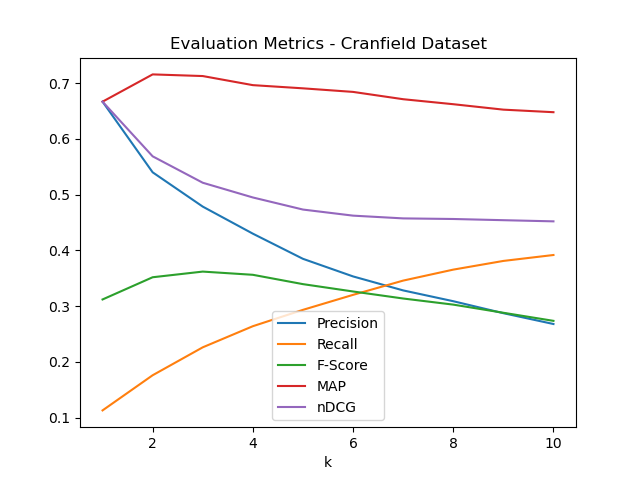
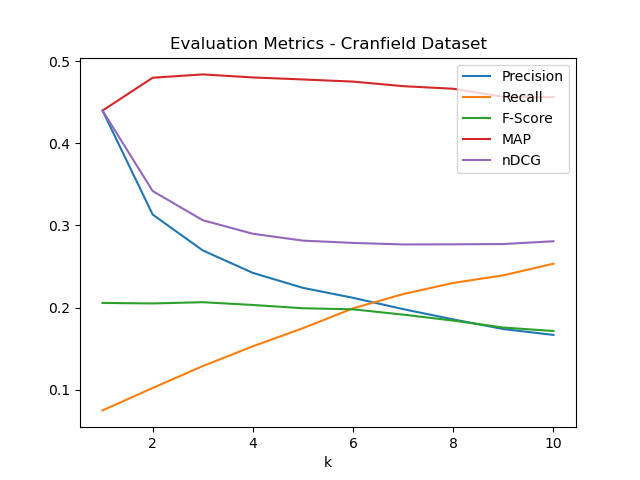
ESA/NESA set alpha = 1 and the rest of the parameters to 0, to get pure ESA/NESA model

diff --git a/build_wikipedia_index_local.py b/build_wikipedia_index_local.py
@@ -1,0 +1,249 @@
+import requests
+import time
+import pickle
+from collections import defaultdict, Counter
+from math import log
+import re
+import nltk
+from nltk.stem import PorterStemmer
+from nltk.corpus import stopwords
+
+# Initialize NLTK resources
+try:
+    nltk.data.find('tokenizers/punkt')
+    nltk.data.find('corpora/stopwords')
+except LookupError:
+    nltk.download('punkt')
+    nltk.download('stopwords')
+
+class WikipediaIndexBuilder:
+    def __init__(self, output_file='wikipedia_index.pkl', max_articles=10000, batch_size=20, max_retries=3):
+        """
+        Initialize the Wikipedia index builder.
+
+        Parameters:
+        - output_file (str): Path to save the pickled index
+        - max_articles (int): Maximum number of articles to process
+        - batch_size (int): Number of articles per API request
+        - max_retries (int): Maximum retries for failed requests
+        """
+        self.output_file = output_file
+        self.max_articles = max_articles
+        self.batch_size = batch_size
+        self.max_retries = max_retries
+        self.session = requests.Session()
+        self.stemmer = PorterStemmer()
+        self.stopwords = set(stopwords.words('english'))
+        self.URL = "https://en.wikipedia.org/w/api.php"
+
+    def get_category_members(self, category, depth=0, max_depth=3):
+        """
+        Recursively get articles in a category and subcategories up to max_depth.
+
+        Parameters:
+        - category (str): Wikipedia category name, e.g., "Category:Aerospace engineering"
+        - depth (int): Current recursion depth
+        - max_depth (int): Maximum recursion depth
+
+        Returns:
+        - set: Set of unique article titles
+        """
+        if depth > max_depth:
+            return set()
+        articles = set()
+        PARAMS = {
+            "action": "query",
+            "list": "categorymembers",
+            "cmtitle": category,
+            "cmtype": "page|subcat",
+            "cmlimit": "500",
+            "format": "json"
+        }
+        retries = 0
+        while retries < self.max_retries:
+            try:
+                response = self.session.get(url=self.URL, params=PARAMS, timeout=10)
+                response.raise_for_status()
+                data = response.json()
+                members = data["query"]["categorymembers"]
+                articles.update(member["title"] for member in members if member["ns"] == 0)
+                subcats = [member["title"] for member in members if member["ns"] == 14]
+                for subcat in subcats:
+                    articles.update(self.get_category_members(subcat, depth + 1, max_depth))
+                break
+            except requests.exceptions.HTTPError as e:
+                if e.response.status_code == 429:
+                    wait_time = 2 ** retries
+                    print(f"Rate limit hit for {category}, retrying in {wait_time}s...")
+                    time.sleep(wait_time)
+                    retries += 1
+                else:
+                    print(f"HTTP error for {category}: {e}")
+                    break
+            except requests.RequestException as e:
+                print(f"Request error for {category}: {e}")
+                break
+            time.sleep(0.5)  # Reduced delay
+        return articles
+
+    def get_article_extracts(self, titles):
+        """
+        Fetch plain text extracts for a list of article titles in batches.
+
+        Parameters:
+        - titles (list): List of article titles
+
+        Returns:
+        - list: List of tuples (title, extract)
+        """
+        extracts = []
+        titles = list(set(titles))  # Remove duplicates
+        for i in range(0, len(titles), self.batch_size):
+            batch = titles[i:i + self.batch_size]
+            retries = 0
+            while retries < self.max_retries:
+                try:
+                    PARAMS = {
+                        "action": "query",
+                        "prop": "extracts",
+                        "exintro": "",
+                        "explaintext": "",
+                        "titles": "|".join(batch),
+                        "format": "json"
+                    }
+                    response = self.session.get(url=self.URL, params=PARAMS, timeout=10)
+                    response.raise_for_status()
+                    data = response.json()
+                    pages = data["query"]["pages"]
+                    for page_id, page in pages.items():
+                        if "extract" in page and page["extract"].strip():
+                            extracts.append((page["title"], page["extract"]))
+                    break
+                except requests.exceptions.HTTPError as e:
+                    if e.response.status_code == 429:
+                        wait_time = 2 ** retries
+                        print(f"Rate limit hit for batch {i//self.batch_size}, retrying in {wait_time}s...")
+                        time.sleep(wait_time)
+                        retries += 1
+                    else:
+                        print(f"HTTP error for batch {i//self.batch_size}: {e}")
+                        break
+                except requests.RequestException as e:
+                    print(f"Request error for batch {i//self.batch_size}: {e}")
+                    break
+                time.sleep(0.5)  # Reduced delay
+        return extracts
+
+    def preprocess_text(self, text):
+        """
+        Preprocess text to match Cranfield tokenization (e.g., stemming, no punctuation).
+
+        Parameters:
+        - text (str): Raw text
+
+        Returns:
+        - list: List of processed tokens
+        """
+        # Tokenize, remove punctuation, lowercase
+        tokens = re.findall(r'\b[a-z0-9]+\b', text.lower())
+        # Remove stopwords and stem
+        tokens = [self.stemmer.stem(token) for token in tokens if token not in self.stopwords]
+        return tokens
+
+    def build_wikipedia_index_from_extracts(self, extracts):
+        """
+        Build a term-to-concept inverted index from Wikipedia article extracts.
+
+        Parameters:
+        - extracts (list): List of tuples (title, text)
+
+        Returns:
+        - dict: Index data to be pickled
+        """
+        index = defaultdict(list)
+        concept_id_to_title = {}
+        term_df = defaultdict(int)
+        doc_count = min(len(extracts), self.max_articles)
+
+        for concept_id, (title, content) in enumerate(extracts[:self.max_articles]):
+            if not content.strip():
+                continue
+            concept_id_to_title[concept_id] = title
+            tokens = self.preprocess_text(content)
+            if not tokens:
+                continue
+            term_freq = Counter(tokens)
+            for term in term_freq:
+                term_df[term] += 1
+            for term, freq in term_freq.items():
+                tf = 1 + log(freq)
+                index[term].append((concept_id, tf))
+
+        # Compute IDF
+        idf = {term: log(doc_count / df) if df > 0 else 0.0 for term, df in term_df.items()}
+
+        # Update index with TF-IDF
+        for term in index:
+            for i, (concept_id, tf) in enumerate(index[term]):
+                tf_idf = tf * idf[term]
+                index[term][i] = (concept_id, tf_idf)
+
+        # Verify key terms
+        key_terms = ['aeroelast', 'aerodynam', 'slipstream', 'lift']
+        for term in key_terms:
+            print(f"Term '{term}' in index: {term in index}, TF-IDF entries: {len(index[term]) if term in index else 0}")
+
+        return {
+            'index': index,
+            'concept_id_to_title': concept_id_to_title,
+            'idf': idf,
+            'doc_count': doc_count
+        }
+
+    def save_index(self, index_data):
+        """
+        Save the index to a file.
+
+        Parameters:
+        - index_data (dict): Index data to pickle
+        """
+        with open(self.output_file, 'wb') as f:
+            pickle.dump(index_data, f)
+        print(f"Built and saved index with {index_data['doc_count']} articles and {len(index_data['index'])} unique terms to {self.output_file}")
+
+    def main(self):
+        """
+        Main function to build the Wikipedia index.
+        """
+        print("Starting Wikipedia index building...")
+        # Broader aerospace-related categories
+        categories = [
+            "Category:Aerospace engineering",
+            "Category:Aeronautics",
+            "Category:Aircraft",
+            "Category:Fluid dynamics",
+            "Category:Mechanical engineering"
+        ]
+        articles = set()
+        for category in categories:
+            print(f"Fetching articles from {category}...")
+            articles.update(self.get_category_members(category))
+        articles = list(articles)
+        print(f"Found {len(articles)} unique articles")
+
+        if articles:
+            print(f"Fetching extracts for {min(len(articles), self.max_articles)} articles...")
+            extracts = self.get_article_extracts(articles)
+            print(f"Fetched {len(extracts)} extracts")
+
+            if extracts:
+                index_data = self.build_wikipedia_index_from_extracts(extracts)
+                self.save_index(index_data)
+            else:
+                print("No extracts fetched, check API connectivity")
+        else:
+            print("No articles found, check categories or API connectivity")
+
+if __name__ == "__main__":
+    builder = WikipediaIndexBuilder(output_file='wikipedia_index.pkl', max_articles=10000)
+    builder.main()

diff --git a/esa.py b/esa.py
@@ -245,7 +245,7 @@ class ExplicitSemanticAnalysis:
         print(f"ESA/NESA index build time: {time.time() - start_time:.2f} seconds")
         print(f"Indexed {len(self.doc_vectors)} documents into ESA/NESA vectors.")
 
-    def rank(self, queries, alpha=0.5, beta_prf=0, gamma_expansion=0, K_prf=0, M_prf=0):
+    def rank(self, queries, alpha=1, beta_prf=0, gamma_expansion=0, K_prf=0, M_prf=0):
         """
         Rank documents by relevance to each query using ESA or NESA with optional TF-IDF hybrid scoring
         and pseudo-relevance feedback.
